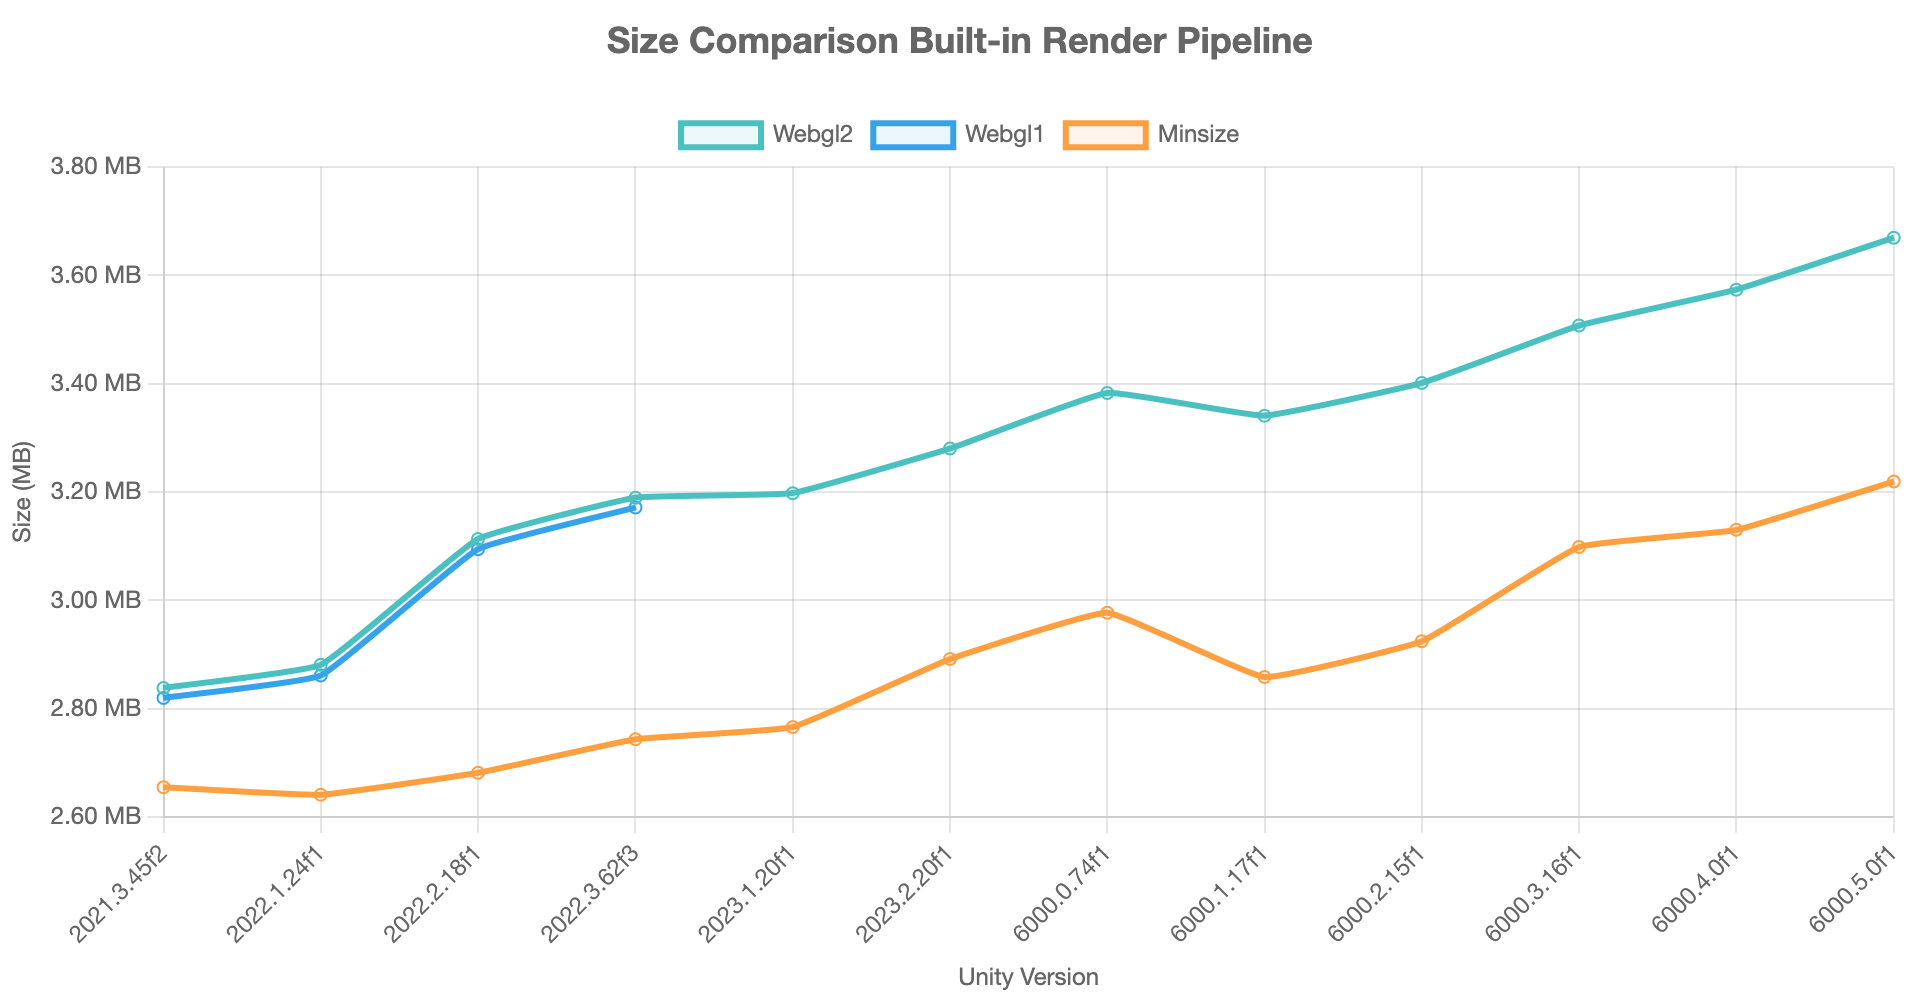
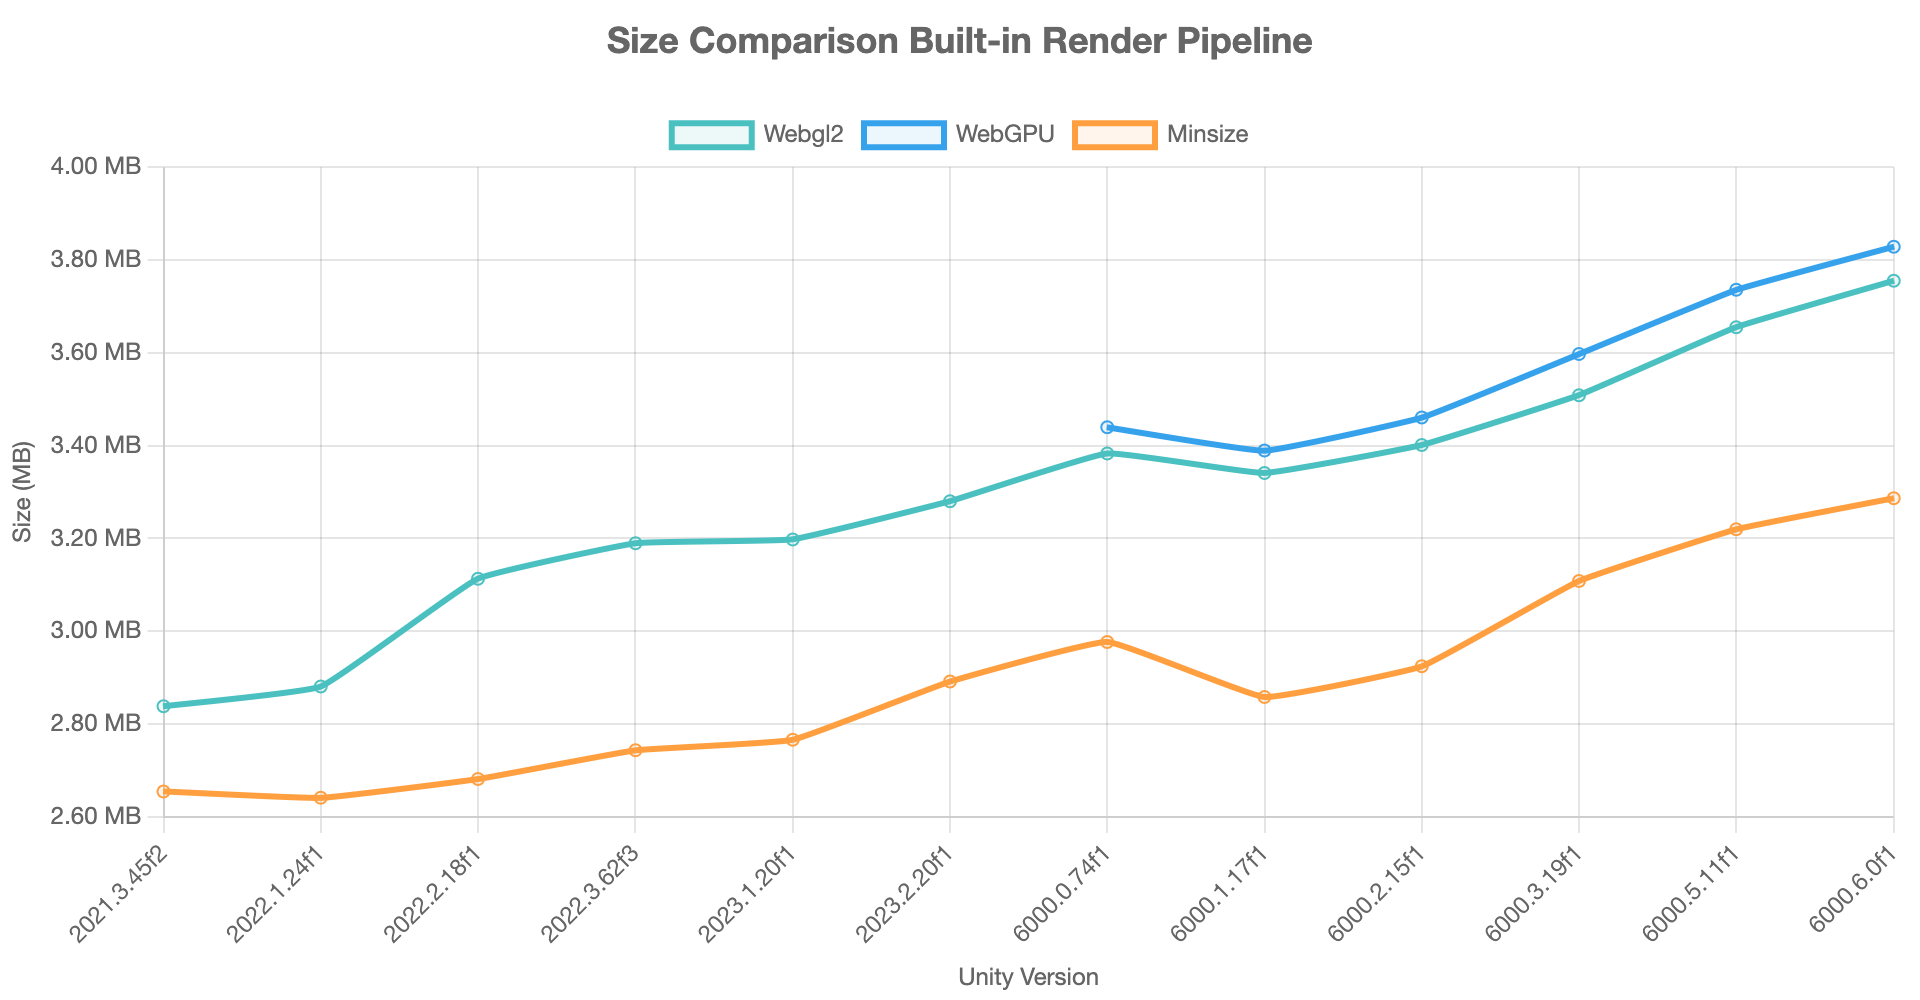
Update readme with results from unity 6000.6
Also change table and graph from WebGL1 to WebGPU, since that is more relevant nowadays

diff --git a/README.md b/README.md
@@ -2,9 +2,9 @@
 
 ![Preview](./preview.png)
 
-[![](https://img.shields.io/github/release-date/JohannesDeml/UnityWebGL-LoadingTest.svg)](https://github.com/JohannesDeml/UnityWebGL-LoadingTest/releases) [![Tested up to Unity 6.5](https://img.shields.io/badge/tested%20up%20to%20unity-6000.5-green.svg?logo=unity&cacheSeconds=2592000)](https://unity3d.com/get-unity/download/archive)
+[![](https://img.shields.io/github/release-date/JohannesDeml/UnityWebGL-LoadingTest.svg)](https://github.com/JohannesDeml/UnityWebGL-LoadingTest/releases) [![Tested up to Unity 6.6](https://img.shields.io/badge/tested%20up%20to%20unity-6000.6-green.svg?logo=unity&cacheSeconds=2592000)](https://unity3d.com/get-unity/download/archive)
 
-*Testing Unity's WebGL size and loading time for different versions (2018.4 - 6000.5) and settings*
+*Testing Unity's WebGL size and loading time for different versions (2018.4 - 6000.6) and settings*
 
 * [Overview page of all builds](https://deml.io/experiments/unity-webgl/)
 * [Implementation in Godot](https://github.com/JohannesDeml/Godot-Web-LoadingTest)
@@ -34,9 +34,9 @@ BiRP Build Size | URP Build Size
 
 Version | Size | Link
 --- | --- | ---
-6000.5.0f1 | 3.67 MB | https://deml.io/experiments/unity-webgl/6000.5.0f1-webgl2
-6000.4.0f1 | 3.57 MB | https://deml.io/experiments/unity-webgl/6000.4.0f1-webgl2
-6000.3.16f1 | 3.51 MB | https://deml.io/experiments/unity-webgl/6000.3.16f1-webgl2
+6000.6.0f1 | 3.76 MB | https://deml.io/experiments/unity-webgl/6000.6.0f1-webgl2
+6000.5.11f1 | 3.66 MB | https://deml.io/experiments/unity-webgl/6000.5.11f1-webgl2
+6000.3.19f1 | 3.51 MB | https://deml.io/experiments/unity-webgl/6000.3.19f1-webgl2
 6000.2.15f1 | 3.40 MB | https://deml.io/experiments/unity-webgl/6000.2.15f1-webgl2
 6000.1.17f1 | 3.34 MB | https://deml.io/experiments/unity-webgl/6000.1.17f1-webgl2
 6000.0.74f1 | 3.38 MB | https://deml.io/experiments/unity-webgl/6000.0.74f1-webgl2
@@ -48,23 +48,25 @@ Version | Size | Link
 2021.3.45f2 | 2.84 MB | https://deml.io/experiments/unity-webgl/2021.3.45f2-webgl2
 
 
-### Built-in Renderpipeline WebGL1
+### Built-in Renderpipeline WebGPU
 
 Version | Size | Link
 --- | --- | ---
-2022.3.62f3 | 3.17 MB | https://deml.io/experiments/unity-webgl/2022.3.62f3-webgl1
-2022.2.18f1 | 3.09 MB | https://deml.io/experiments/unity-webgl/2022.2.18f1-webgl1
-2022.1.24f1 | 2.86 MB | https://deml.io/experiments/unity-webgl/2022.1.24f1-webgl1
-2021.3.45f2 | 2.82 MB | https://deml.io/experiments/unity-webgl/2021.3.45f2-webgl1
+6000.6.0f1 | 3.83 MB | https://deml.io/experiments/unity-webgl/6000.6.0f1-webgpu
+6000.5.11f1 | 3.74 MB | https://deml.io/experiments/unity-webgl/6000.5.11f1-webgpu
+6000.3.19f1 | 3.60 MB | https://deml.io/experiments/unity-webgl/6000.3.19f1-webgpu
+6000.2.15f1 | 3.46 MB | https://deml.io/experiments/unity-webgl/6000.2.15f1-webgpu
+6000.1.17f1 | 3.39 MB | https://deml.io/experiments/unity-webgl/6000.1.17f1-webgpu
+6000.0.74f1 | 3.44 MB | https://deml.io/experiments/unity-webgl/6000.0.74f1-webgpu
 
 
 ### Built-in Renderpipeline Minimum size
 
 Version | Size | Link
 --- | --- | ---
-6000.5.0f1 | 3.22 MB | https://deml.io/experiments/unity-webgl/6000.5.0f1-minsize-webgl2
-6000.4.0f1 | 3.13 MB | https://deml.io/experiments/unity-webgl/6000.4.0f1-minsize-webgl2
-6000.3.16f1 | 3.10 MB | https://deml.io/experiments/unity-webgl/6000.3.16f1-minsize-webgl2
+6000.6.0f1 | 3.29 MB | https://deml.io/experiments/unity-webgl/6000.6.0f1-minsize-webgl2
+6000.5.11f1 | 3.22 MB | https://deml.io/experiments/unity-webgl/6000.5.11f1-minsize-webgl2
+6000.3.19f1 | 3.11 MB | https://deml.io/experiments/unity-webgl/6000.3.19f1-minsize-webgl2
 6000.2.15f1 | 2.92 MB | https://deml.io/experiments/unity-webgl/6000.2.15f1-minsize-webgl2
 6000.1.17f1 | 2.86 MB | https://deml.io/experiments/unity-webgl/6000.1.17f1-minsize-webgl2
 6000.0.74f1 | 2.98 MB | https://deml.io/experiments/unity-webgl/6000.0.74f1-minsize-webgl2
@@ -80,9 +82,10 @@ Version | Size | Link
 
 Version | Size | Link
 --- | --- | ---
-6000.5.0f1 | 5.59 MB | https://deml.io/experiments/unity-webgl/6000.5.0f1-urp-webgl2
-6000.4.0f1 | 8.74 MB | https://deml.io/experiments/unity-webgl/6000.4.0f1-urp-webgl2
-6000.3.16f1 | 8.68 MB | https://deml.io/experiments/unity-webgl/6000.3.16f1-urp-webgl2
+6000.6.0f1 | 7.52 MB | https://deml.io/experiments/unity-webgl/6000.6.0f1-urp-webgl2
+6000.5.11f1 | 5.58 MB | https://deml.io/experiments/unity-webgl/6000.5.11f1-urp-webgl2
+6000.4.12f1 | 8.79 MB | https://deml.io/experiments/unity-webgl/6000.4.12f1-urp-webgl2
+6000.3.19f1 | 8.67 MB | https://deml.io/experiments/unity-webgl/6000.3.19f1-urp-webgl2
 6000.2.15f1 | 8.13 MB | https://deml.io/experiments/unity-webgl/6000.2.15f1-urp-webgl2
 6000.1.17f1 | 7.97 MB | https://deml.io/experiments/unity-webgl/6000.1.17f1-urp-webgl2
 6000.0.74f1 | 8.37 MB | https://deml.io/experiments/unity-webgl/6000.0.74f1-urp-webgl2
@@ -94,22 +97,27 @@ Version | Size | Link
 2021.3.45f2 | 6.36 MB | https://deml.io/experiments/unity-webgl/2021.3.45f2-urp-webgl2
 
 
-### URP WebGL1
+### URP WebGPU
 
 Version | Size | Link
 --- | --- | ---
-2022.3.62f3 | 5.93 MB | https://deml.io/experiments/unity-webgl/2022.3.62f3-urp-webgl1
-2022.2.18f1 | 7.13 MB | https://deml.io/experiments/unity-webgl/2022.2.18f1-urp-webgl1
-2022.1.24f1 | 6.38 MB | https://deml.io/experiments/unity-webgl/2022.1.24f1-urp-webgl1
-2021.3.45f2 | 6.17 MB | https://deml.io/experiments/unity-webgl/2021.3.45f2-urp-webgl1
+6000.6.0f1 | 7.31 MB | https://deml.io/experiments/unity-webgl/6000.6.0f1-urp-webgpu
+6000.5.11f1 | 5.54 MB | https://deml.io/experiments/unity-webgl/6000.5.11f1-urp-webgpu
+6000.4.12f1 | 8.41 MB | https://deml.io/experiments/unity-webgl/6000.4.12f1-urp-webgpu
+6000.3.19f1 | 8.60 MB | https://deml.io/experiments/unity-webgl/6000.3.19f1-urp-webgpu
+6000.2.15f1 | 8.05 MB | https://deml.io/experiments/unity-webgl/6000.2.15f1-urp-webgpu
+6000.1.17f1 | 7.86 MB | https://deml.io/experiments/unity-webgl/6000.1.17f1-urp-webgpu
+6000.0.74f1 | 8.27 MB | https://deml.io/experiments/unity-webgl/6000.0.74f1-urp-webgpu
 
 
 ### URP Minimum Size
 
 Version | Size | Link
 --- | --- | ---
-6000.4.0f1 | 6.78 MB | https://deml.io/experiments/unity-webgl/6000.4.0f1-urp-minsize-webgl2
-6000.3.16f1 | 6.75 MB | https://deml.io/experiments/unity-webgl/6000.3.16f1-urp-minsize-webgl2
+6000.6.0f1 | 5.82 MB | https://deml.io/experiments/unity-webgl/6000.6.0f1-urp-minsize-webgl2
+6000.5.11f1 | 4.48 MB | https://deml.io/experiments/unity-webgl/6000.5.11f1-urp-minsize-webgl2
+6000.4.12f1 | 6.54 MB | https://deml.io/experiments/unity-webgl/6000.4.12f1-urp-minsize-webgl2
+6000.3.19f1 | 6.76 MB | https://deml.io/experiments/unity-webgl/6000.3.19f1-urp-minsize-webgl2
 6000.2.15f1 | 6.24 MB | https://deml.io/experiments/unity-webgl/6000.2.15f1-urp-minsize-webgl2
 6000.1.17f1 | 5.64 MB | https://deml.io/experiments/unity-webgl/6000.1.17f1-urp-minsize-webgl2
 6000.0.74f1 | 6.53 MB | https://deml.io/experiments/unity-webgl/6000.0.74f1-urp-minsize-webgl2
